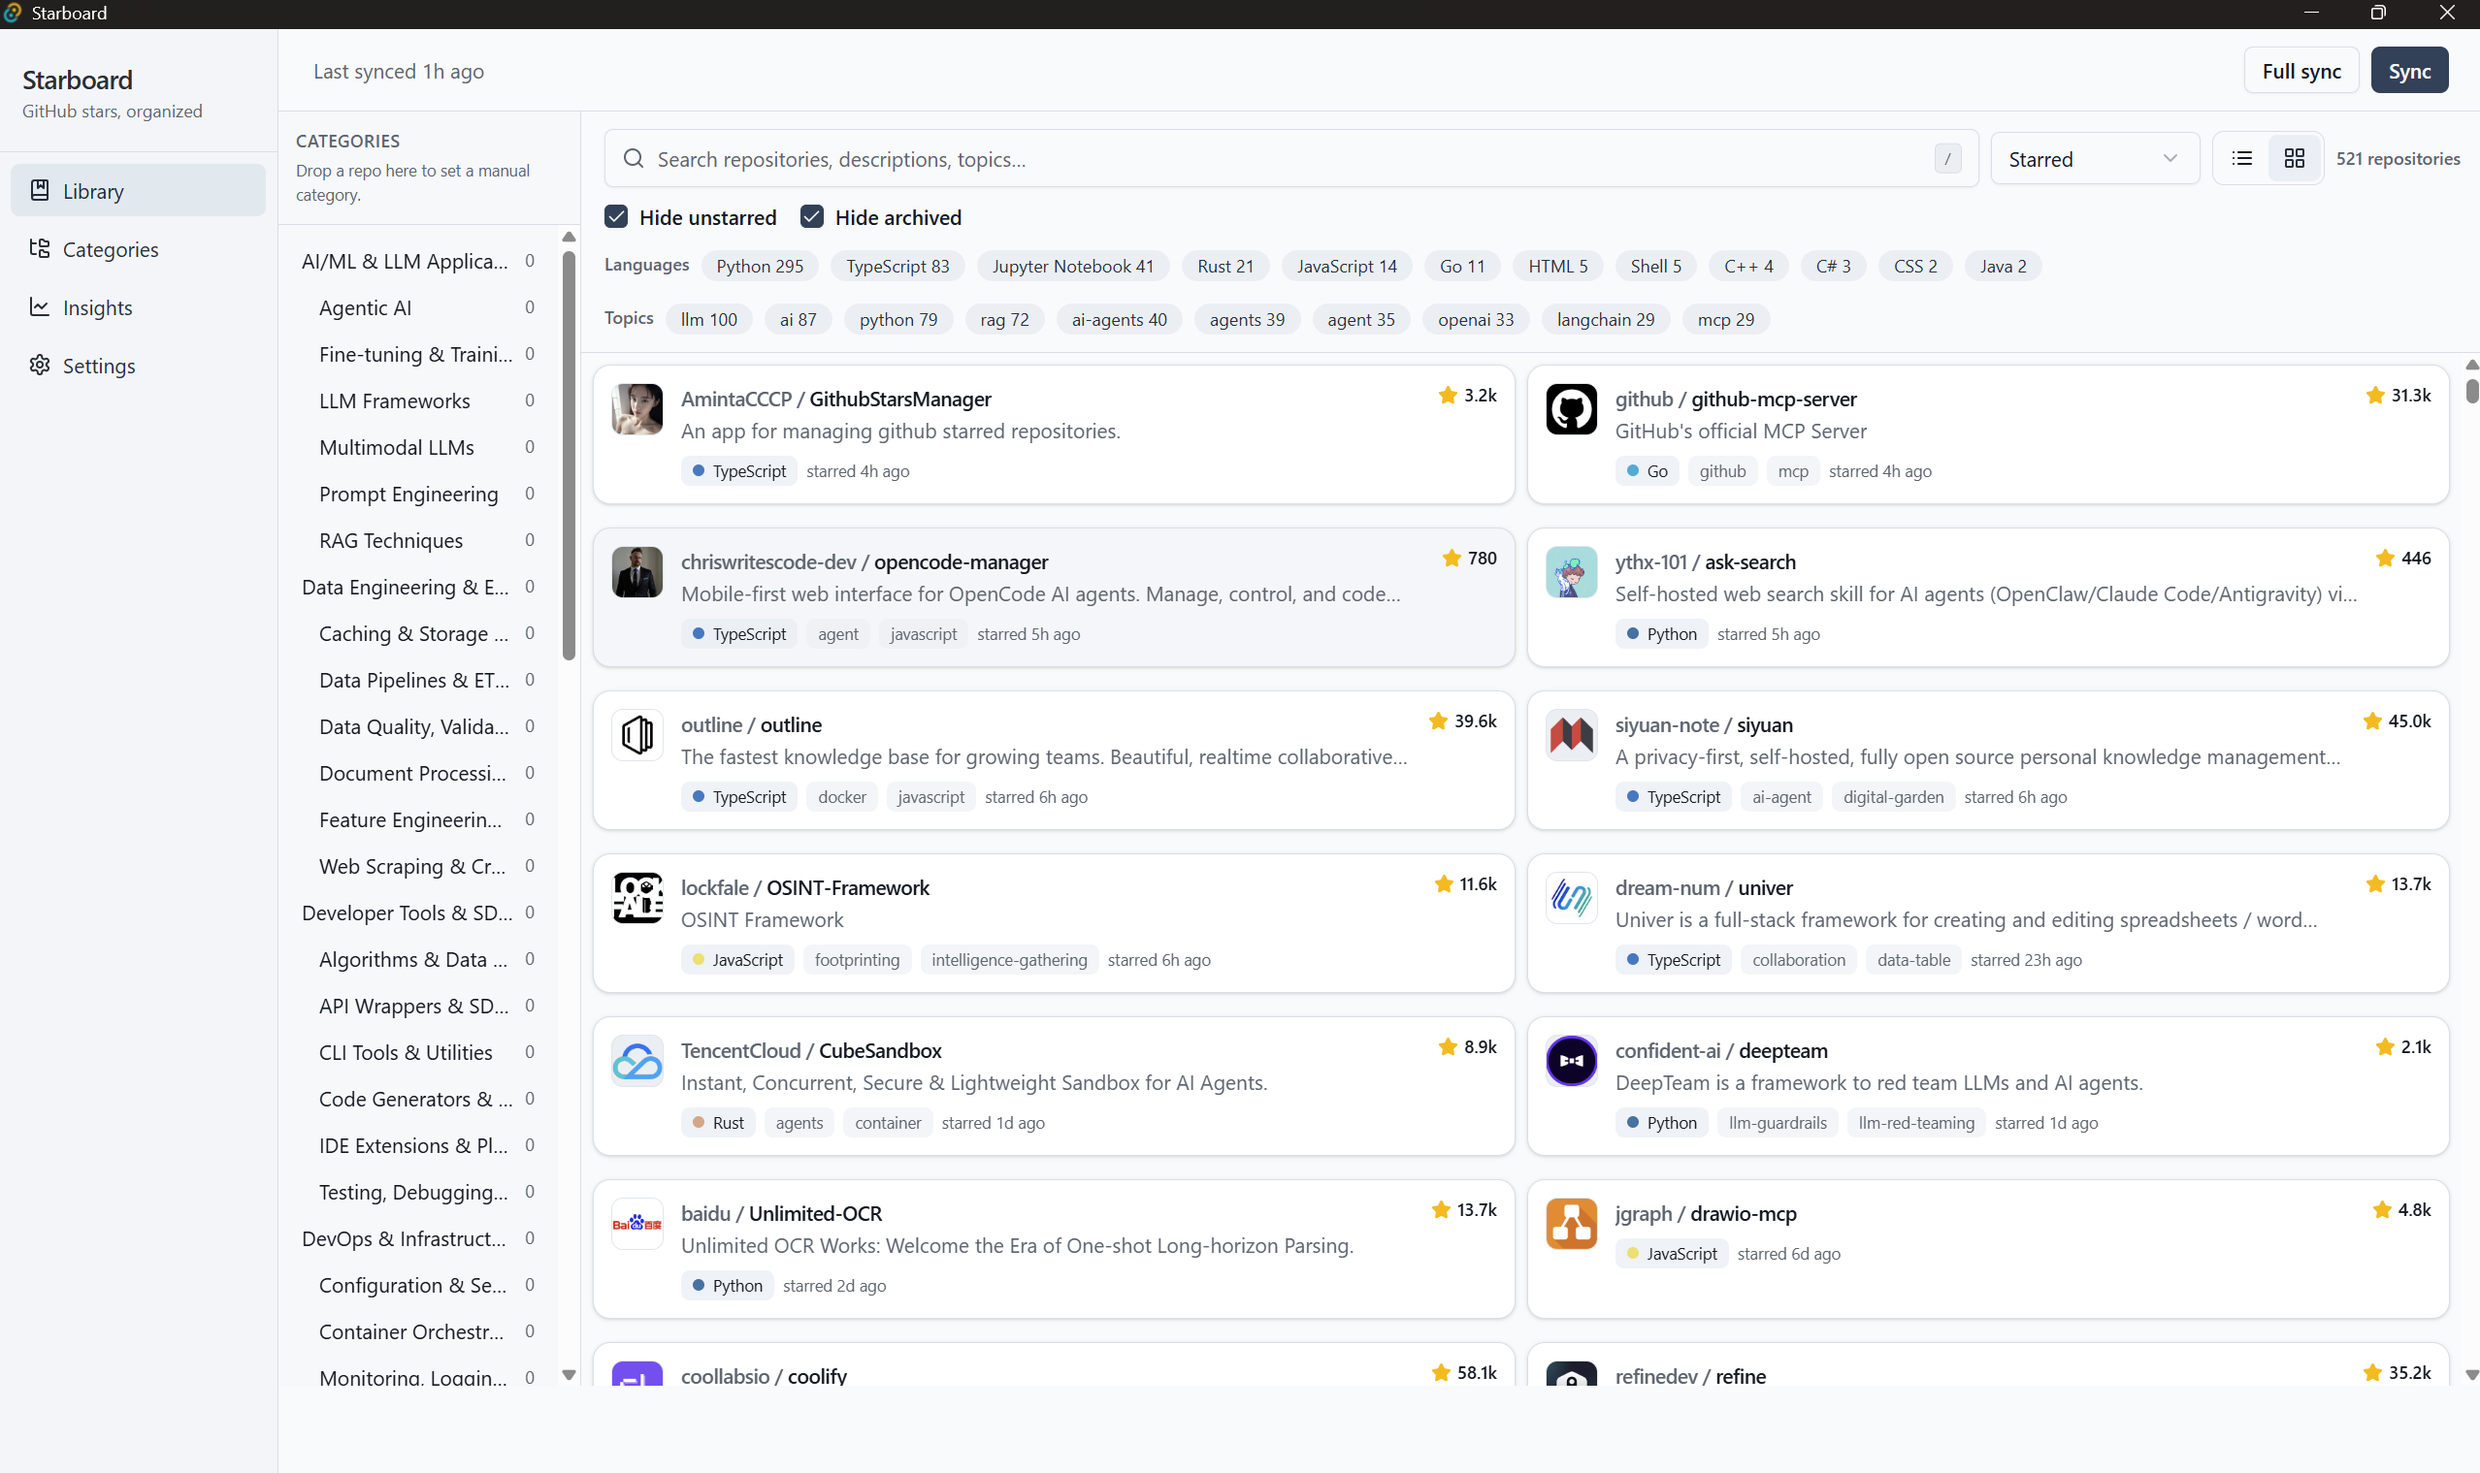
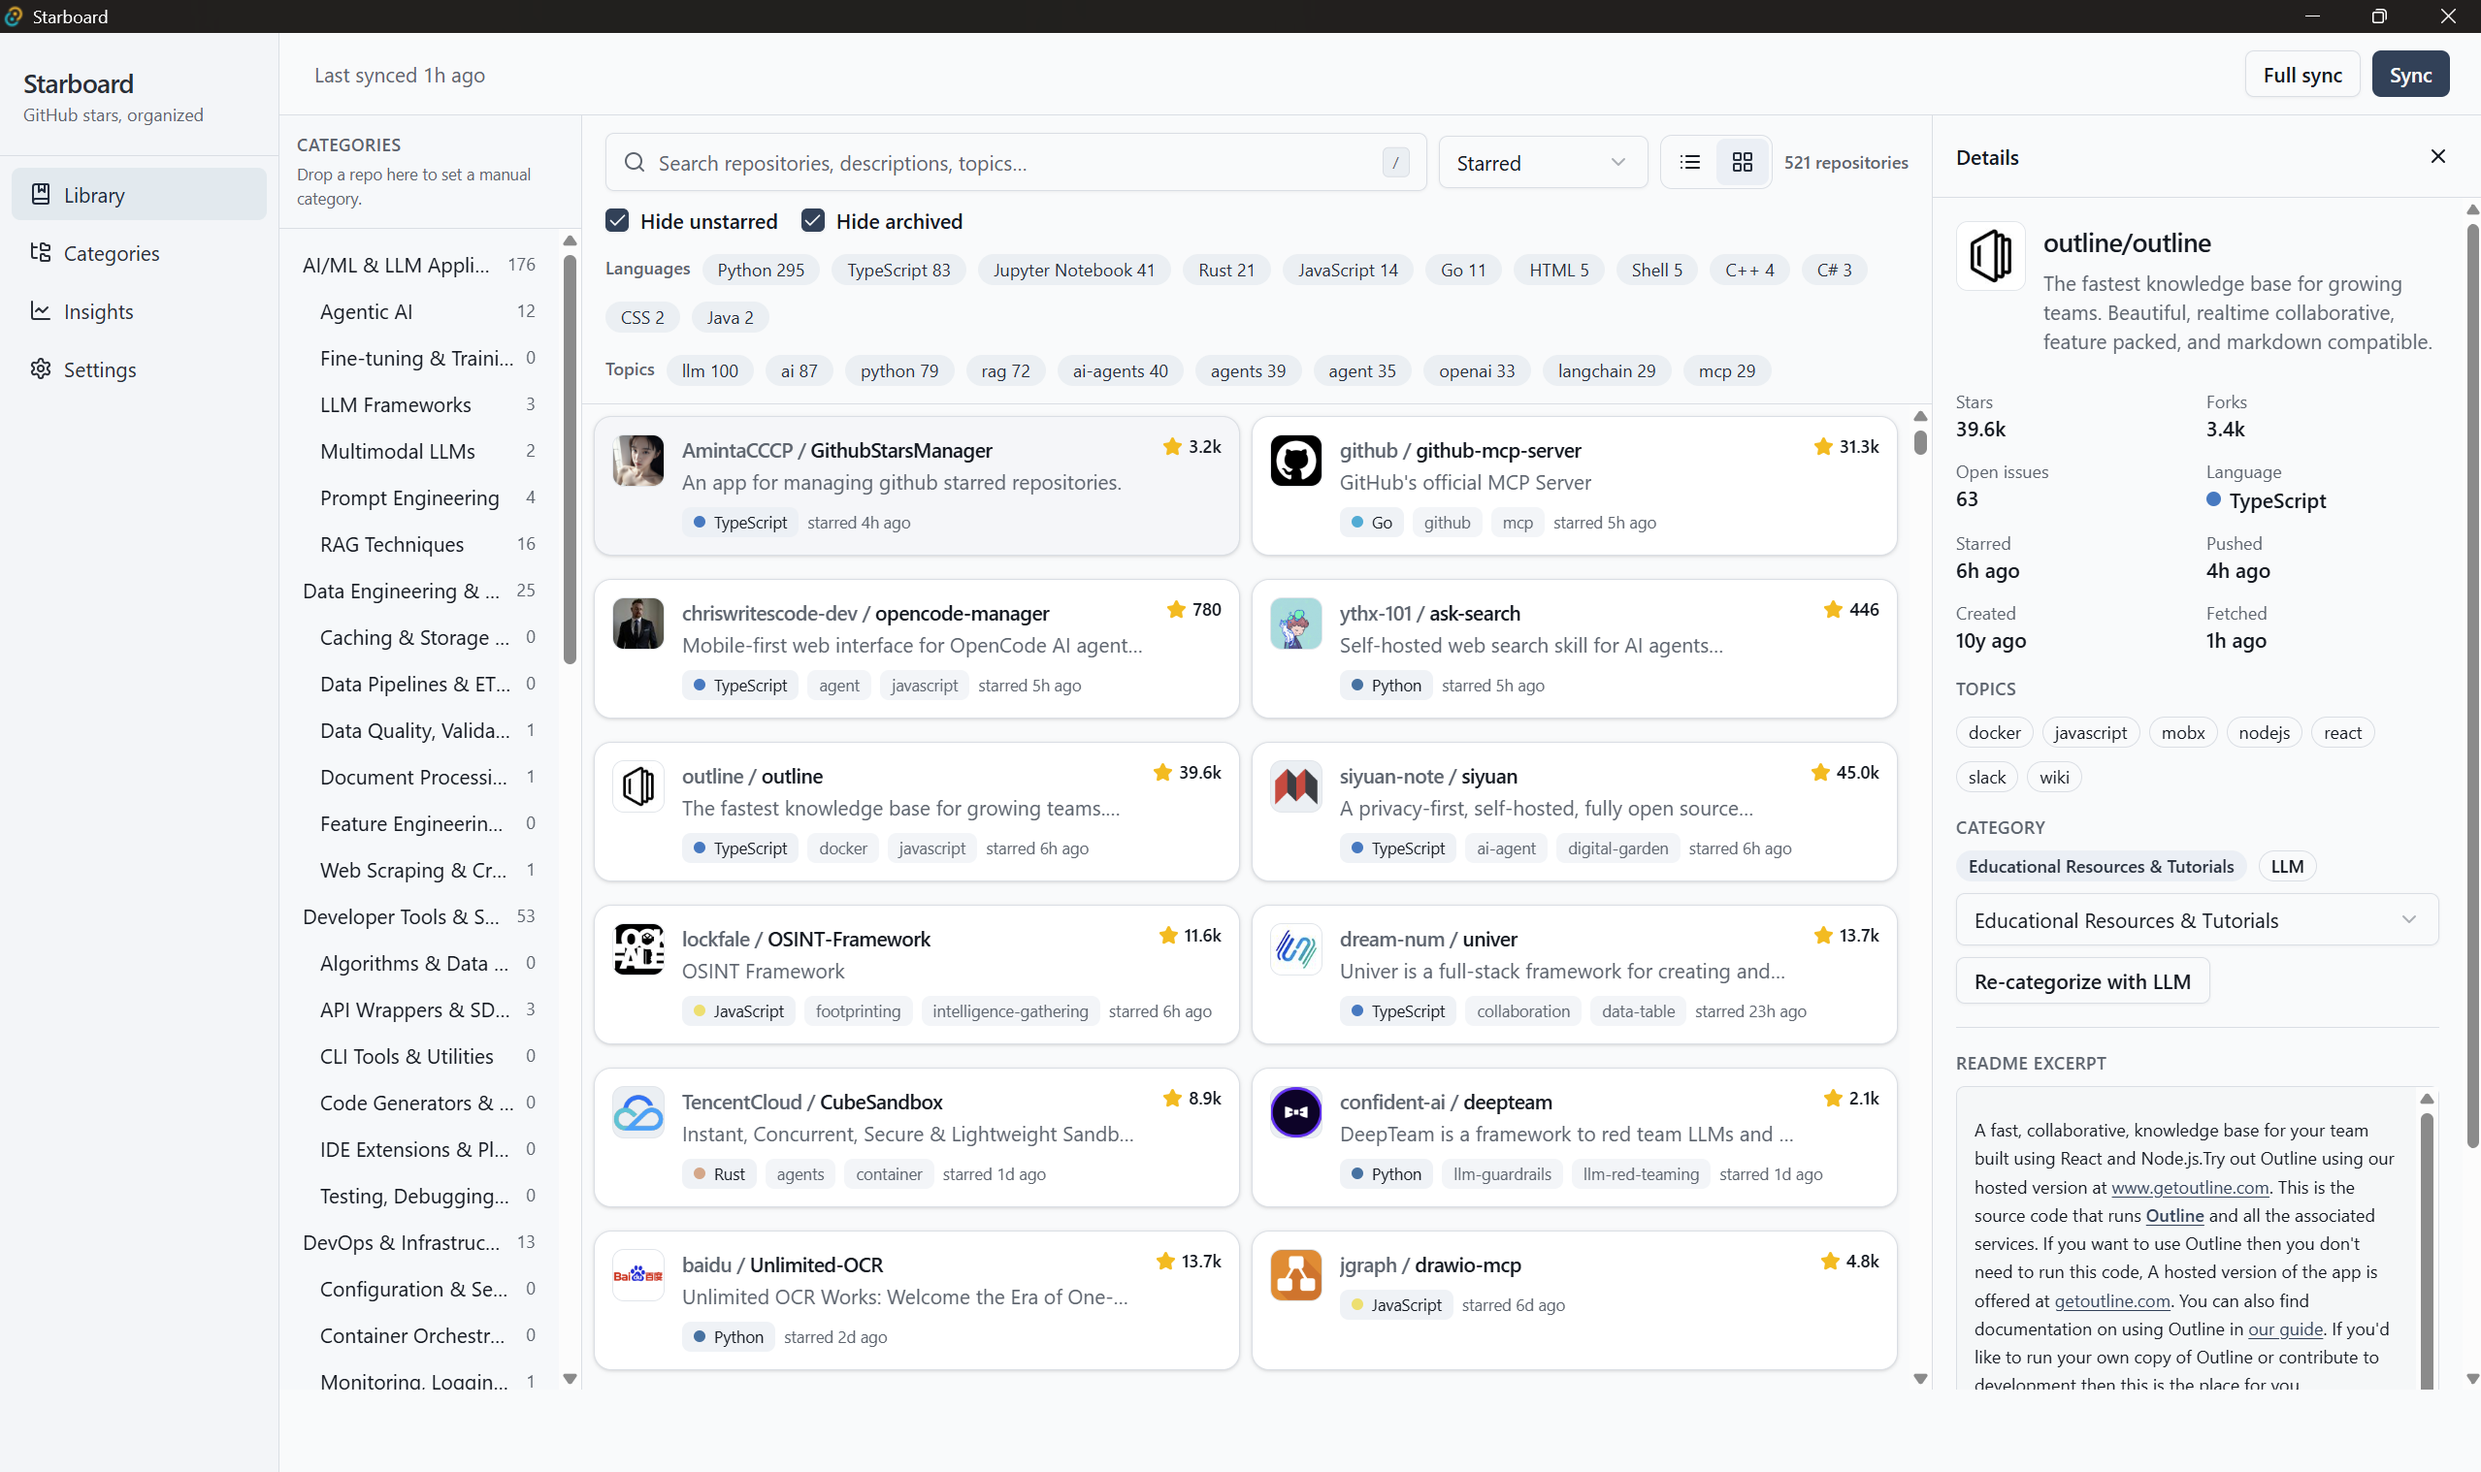
Updated README with badges and Note and updated screenshot

diff --git a/README.md b/README.md
@@ -1,5 +1,17 @@
 # Starboard
 
+> 🚧 **Work in Progress** — Starboard is under active development. Features and APIs may change as I continue building and refining the project.
+
+![Status](https://img.shields.io/badge/status-WIP-orange)
+![Windows](https://img.shields.io/badge/platform-Windows-blue)
+![Rust](https://img.shields.io/badge/Rust-1.90+-black?logo=rust)
+![React](https://img.shields.io/badge/React-19-61DAFB?logo=react)
+![Tauri](https://img.shields.io/badge/Tauri-2-24C8DB?logo=tauri)
+![License](https://img.shields.io/badge/license-MIT-green)
+
+> [!NOTE]
+> Starboard is a personal project that's under active development. I'm building it to solve my own workflow, so features, UI, and even the roadmap will continue to evolve. Feedback, ideas, and contributions are welcome.
+
 Local-first desktop app for organizing GitHub stars.
 
 I tend to star interesting repositories while browsing GitHub, Hacker News, Reddit, Twitter, and blog posts. After a few months, those stars turn into a giant pile of bookmarks that I rarely revisit.
